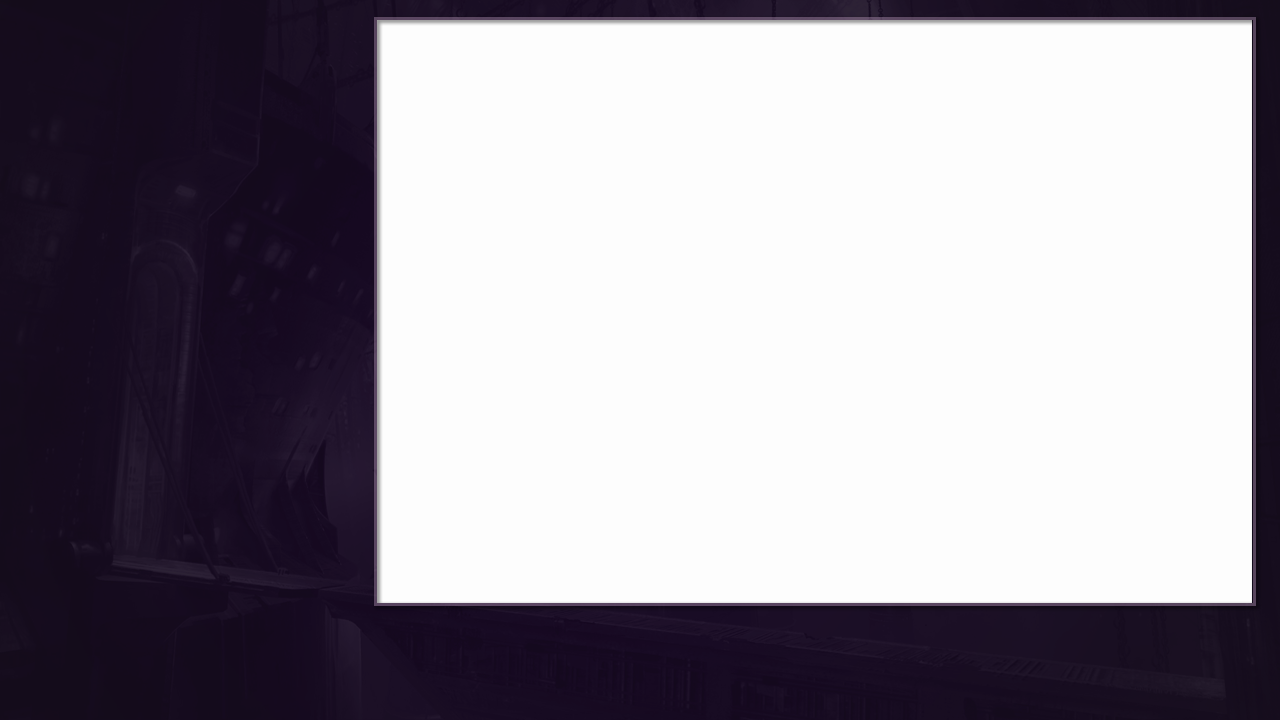
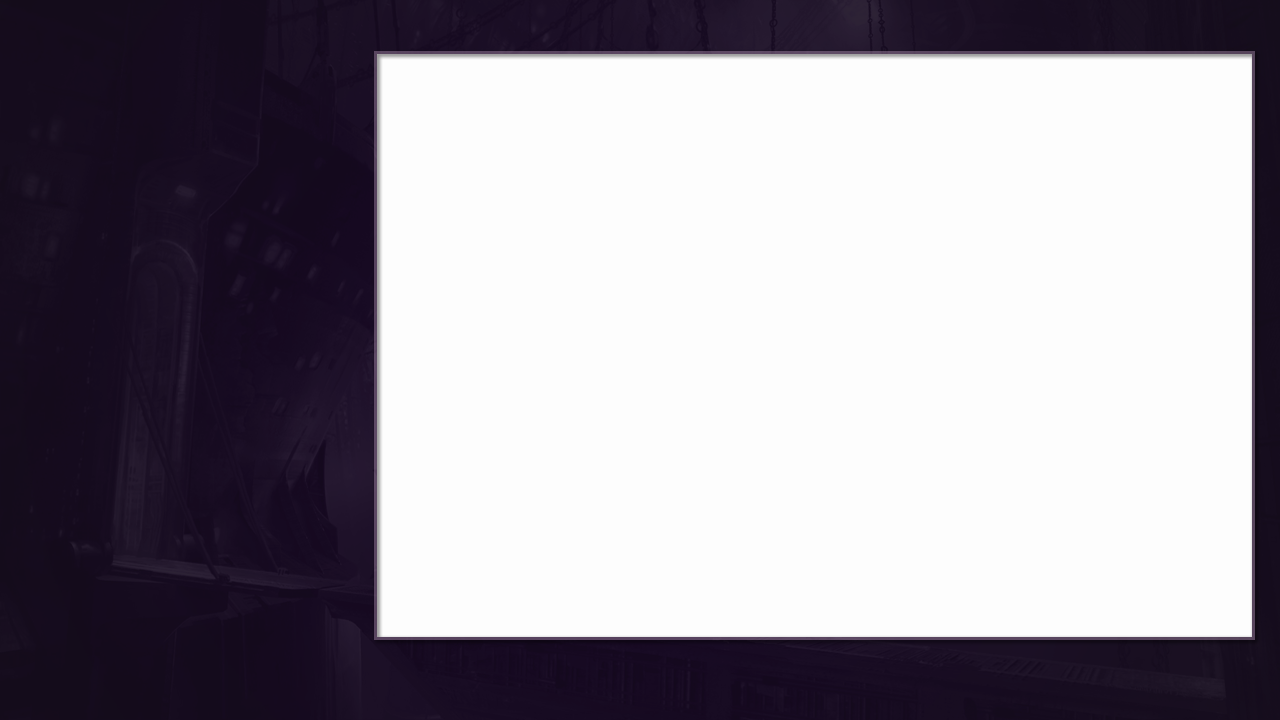
Fixes to the overlays to contain progressbar
as title says

Changed region(s): [[0.2812, 0.0, 1.0, 0.0917], [0.2812, 0.825, 1.0, 0.8861]]

diff --git a/view/css/Single_3_2.css b/view/css/Single_3_2.css
@@ -21,9 +21,9 @@ body {
 
 #playerContainer {
     position: absolute;
-    width: 400px;
+    width: 370px;
     height: 50px;
-    top: 610px;
+    top: 535px;
     display: flex;
     overflow: hidden;
 }
@@ -52,9 +52,9 @@ body {
 
 #runInformationContainer {
     position: absolute;
-    width: 400px;
+    width: 370px;
     height: 50px;
-    top: 665px;
+    top: 590px;
     display: flex;
     overflow: hidden;
 }
@@ -73,7 +73,7 @@ body {
     width: 375px;
     height: 100px;
     background: rgba(255,255,255,0.1);
-    top: 490px;
+    top: 415px;
 }
 
 #timer {
@@ -117,7 +117,7 @@ body {
     font-family: FFFForward;
     font-size: 12px;
     color: #8d7996;
-    width: 150px;
+    width: 75%;
     text-align: left;
     white-space: nowrap;
 }
@@ -126,7 +126,7 @@ body {
     font-family: FFFForward;
     font-size: 12px;
     color: #8d7996;
-    width: 175px;
+    width: 25%;
     text-align: right;
     white-space: nowrap;
 }
@@ -134,8 +134,8 @@ body {
 
 #marathonLogo {
     position: absolute;
-    top: 200px;
-    left: 50px;
+    top: 185px;
+    left: 60px;
     width: 263px;
     height: 121px;
     background-image: url('/view/speedcontrol/images/preEsaMarathonLogo.png');

diff --git a/view/css/Single_16_9.css b/view/css/Single_16_9.css
@@ -23,7 +23,8 @@ body {
     position: absolute;
     width: 400px;
     height: 45px;
-    top: 610px;
+    top: 615px;
+    left: 10px;
     display: flex;
     overflow: hidden;
 }
@@ -54,7 +55,8 @@ body {
     position: absolute;
     width: 400px;
     height: 50px;
-    top: 660px;
+    top: 665px;
+    left: 10px;
     display: flex;
     overflow: hidden;
 }
@@ -70,11 +72,11 @@ body {
 
 #timerContainer {
     position: absolute;
-    width: 412px;
+    width: 250px;
     height: 100px;
     background: rgba(255,255,255,0.1);
-    top: 613px;
-    left: 435px;
+    top: 615px;
+    left: 415px;
 }
 
 #timer {
@@ -135,12 +137,12 @@ body {
 #marathonLogo {
     position: absolute;
     top: 615px;
-    right: 40px;
+    right: 140px;
     width: 263px;
     height: 121px;
     background-image: url('/view/speedcontrol/images/preEsaMarathonLogo.png');
     background-repeat: no-repeat;
-    background-size: 80%;
+    background-size: 50%;
 }
 
 #positionDebug {

diff --git a/view/css/Race_2player_4_3.css b/view/css/Race_2player_4_3.css
@@ -88,7 +88,7 @@ body {
     position: absolute;
     width: 400px;
     height: 50px;
-    top: 655px;
+    top: 600px;
     left: 435px;
     display: flex;
     overflow: hidden;
@@ -169,12 +169,13 @@ body {
 
 #marathonLogo {
     position: absolute;
-    top: 570px;
+    top: 555px;
     right: 70px;
     width: 263px;
     height: 121px;
     background-image: url('/view/speedcontrol/images/preEsaMarathonLogo.png');
     background-repeat: no-repeat;
+    background-size: 85%;
 }
 
 #positionDebug {

diff --git a/view/css/Single_4_3.css b/view/css/Single_4_3.css
@@ -23,7 +23,7 @@ body {
     position: absolute;
     width: 400px;
     height: 50px;
-    top: 600px;
+    top: 545px;
     display: flex;
     overflow: hidden;
 }
@@ -54,7 +54,7 @@ body {
     position: absolute;
     width: 400px;
     height: 50px;
-    top: 655px;
+    top: 600px;
     display: flex;
     overflow: hidden;
 }
@@ -73,7 +73,7 @@ body {
     width: 412px;
     height: 100px;
     background: rgba(255,255,255,0.1);
-    top: 490px;
+    top: 430px;
 }
 
 #timer {

diff --git a/view/css/Race_2player_16_9.css b/view/css/Race_2player_16_9.css
@@ -88,7 +88,7 @@ body {
     position: absolute;
     width: 400px;
     height: 50px;
-    top: 655px;
+    top: 620px;
     left: 435px;
     display: flex;
     overflow: hidden;
@@ -169,8 +169,8 @@ body {
 
 #marathonLogo {
     position: absolute;
-    top: 525px;
-    left: 515px;
+    top: 510px;
+    left: 925px;
     width: 263px;
     height: 121px;
     background-image: url('/view/speedcontrol/images/preEsaMarathonLogo.png');

diff --git a/view/css/Race_3player_3_2.css b/view/css/Race_3player_3_2.css
@@ -203,12 +203,13 @@ body {
 
 #marathonLogo {
     position: absolute;
-    top: 400px;
-    right: 70px;
+    top: 575px;
+    left: 600px;
     width: 263px;
     height: 121px;
     background-image: url('/view/speedcontrol/images/preEsaMarathonLogo.png');
     background-repeat: no-repeat;
+    background-size: 80%;
 }
 
 #positionDebug {
